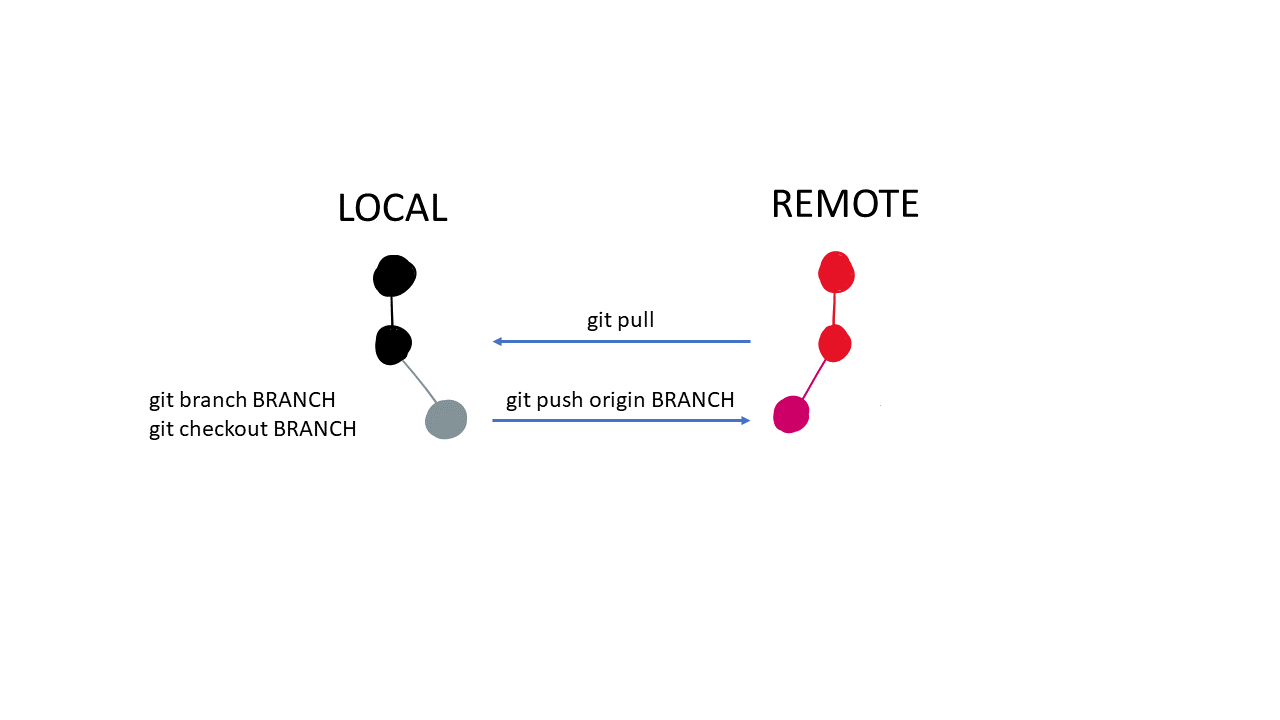
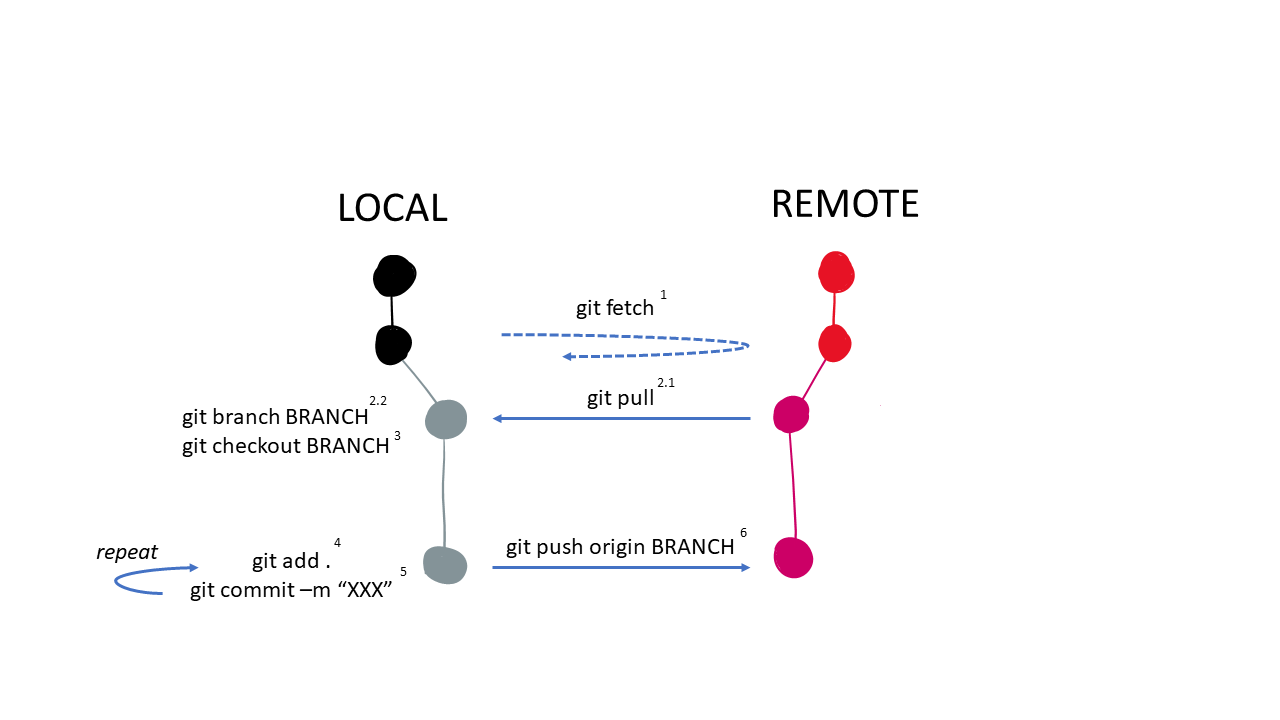
corrected illustrations on workflow and updated slides

diff --git a/presentation_version_control.slides.html b/presentation_version_control.slides.html
@@ -13459,7 +13459,7 @@ a.anchor-link {
 </div><div class="inner_cell">
 <div class="text_cell_render border-box-sizing rendered_html">
 <p><p style="font-size:30px"> Start a repository </p></p>
-<p><p style="font-size:20px"> Either clone an existing remote repository or create a new one locally and push it remotely</p></p>
+<p><p style="font-size:20px"> Either <b>clone</b> an existing remote repository or <b>create</b> a new one locally and push it remotely</p></p>
 <div style="text-align: center;">
 <img src="assets/illlustrations/rep_workflow_1.PNG" width="100%" class="center">
 </div>
@@ -13469,8 +13469,9 @@ a.anchor-link {
 <div class="cell border-box-sizing text_cell rendered"><div class="prompt input_prompt">
 </div><div class="inner_cell">
 <div class="text_cell_render border-box-sizing rendered_html">
-<p><p style="font-size:30px"> Branching </p></p>
-<p><p style="font-size:20px"> Create a branch for every feature you work on </p></p>
+<p><p style="font-size:30px"> Time to start working! </p></p>
+<p><p style="font-size:20px"> <b>Fetch</b> new information to see what changed remotely </p></p>
+<p><p style="font-size:20px"> Create a <b>branch</b> for every feature you work on; work and <b>add</b> the modified files, then <b>commit</b> those changes to the remote branch </p></p>
 <div style="text-align: center;">
 <img src="assets/illlustrations/rep_workflow_2.PNG" width="100%" class="center">
 </div>
@@ -13480,21 +13481,10 @@ a.anchor-link {
 <div class="cell border-box-sizing text_cell rendered"><div class="prompt input_prompt">
 </div><div class="inner_cell">
 <div class="text_cell_render border-box-sizing rendered_html">
-<p><p style="font-size:30px"> Fetching and committing </p></p>
-<p><p style="font-size:20px"> Fetch new information to see what changed remotely; work and add the modified files, then commit those changes to the remote branch </p></p>
+<p><p style="font-size:30px"> Merging </p></p>
+<p><p style="font-size:20px"> When you are done with a feature, <b>merge</b> the branch back with main </p></p>
 <div style="text-align: center;">
 <img src="assets/illlustrations/rep_workflow_3.PNG" width="100%" class="center">
-</div>
-</div>
-</div>
-</div></section><section>
-<div class="cell border-box-sizing text_cell rendered"><div class="prompt input_prompt">
-</div><div class="inner_cell">
-<div class="text_cell_render border-box-sizing rendered_html">
-<p><p style="font-size:30px"> Merging </p></p>
-<p><p style="font-size:20px"> When you are done with a feature, merge the branch back with main </p></p>
-<div style="text-align: center;">
-<img src="assets/illlustrations/rep_workflow_4.PNG" width="100%" class="center">
 </div>
 </div>
 </div>
